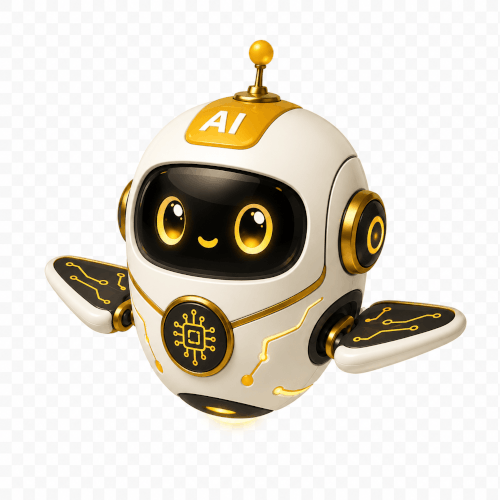
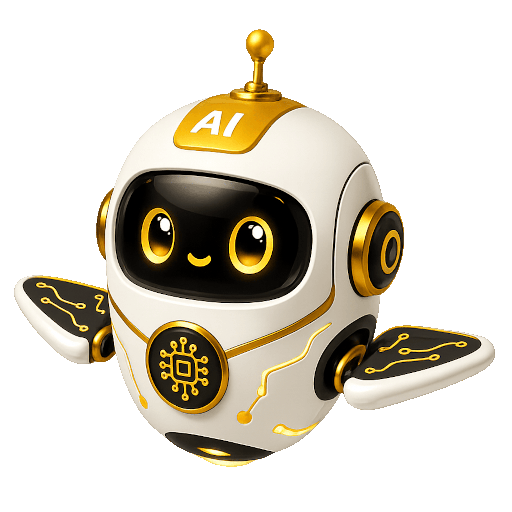
feat(hero-section): add floating mascot animation and update styles

Changed region(s): [[0.03, 0.06, 0.99, 0.93], [0.69, 0.27, 0.72, 0.33], [0.66, 0.24, 0.69, 0.27]]

diff --git a/src/index.css b/src/index.css
@@ -84,6 +84,7 @@
 	--animate-slide-left: slide-left 0.6s ease-out both;
 	--animate-slide-right: slide-right 0.6s ease-out both;
 	--animate-pulse-soft: pulse-soft 3s ease-in-out infinite;
+	--animate-float-bob: float-bob 4s ease-in-out infinite;
 	--animate-scroll-x: scroll-x 20s linear infinite;
 	--animate-menu-slide-down-in: menu-slide-down-in 0.3s ease-out forwards;
 	--animate-scale-in: scale-in 0.2s ease-out forwards;
@@ -151,6 +152,15 @@
 		}
 		50% {
 			opacity: 0.7;
+		}
+	}
+	@keyframes float-bob {
+		0%,
+		100% {
+			transform: translateY(0);
+		}
+		50% {
+			transform: translateY(-8px);
 		}
 	}
 	@keyframes scroll-x {
@@ -687,5 +697,13 @@ body {
 		right: auto;
 		translate: none;
 		justify-self: anchor-center;
+	}
+}
+
+/* Hero mascot float-bob — disabled for reduced-motion. Unlayered so it
+   out-ranks Tailwind's layered `animate-float-bob` utility. */
+@media (prefers-reduced-motion: reduce) {
+	.hero-bot {
+		animation: none;
 	}
 }

diff --git a/src/components/sections/HeroSection.tsx b/src/components/sections/HeroSection.tsx
@@ -1,5 +1,7 @@
+import pingoBot from "@/assets/pingo/pingo-3d.png?w=192;384&format=avif;webp&as=picture";
 import { CodeBlock, exampleApiCode } from "@/components/CodeBlock";
 import { FadeIn } from "@/components/FadeIn";
+import { Picture } from "@/components/Picture";
 import { TrustStrip } from "@/components/sections/TrustStrip";
 import { Button } from "@/components/ui/button";
 import { openZohoChat } from "@/lib/zoho-chat";
@@ -196,6 +198,13 @@ export const HeroSection = () => {
 						<div className="relative">
 							{/* Glow Effect */}
 							<div className="absolute -inset-4 bg-eko-gold/10 rounded-2xl blur-2xl" />
+
+							{/* Floating mascot — decorative */}
+							<Picture
+								src={pingoBot}
+								alt=""
+								className="hero-bot pointer-events-none absolute -top-12 -right-6 w-42 h-42 z-10 drop-shadow-[0_12px_24px_rgba(0,0,0,0.35)] animate-float-bob select-none"
+							/>
 
 							<CodeBlock
 								code={exampleApiCode}

diff --git a/src/components/sections/CTASection.tsx b/src/components/sections/CTASection.tsx
@@ -1,10 +1,10 @@
+import { FadeIn } from "@/components/FadeIn";
 import { SectionContainer } from "@/components/SectionContainer";
 import { Button } from "@/components/ui/button";
-import { MessageCircle, Phone } from "lucide-react";
 import { SALES_MOBILE } from "@/lib/config/site";
 import { formatMobile } from "@/lib/utils";
 import { openZohoChat } from "@/lib/zoho-chat";
-import { FadeIn } from "@/components/FadeIn";
+import { MessageCircle, Phone } from "lucide-react";
 
 export const CTASection = () => {
 	const handleChat = () => {

diff --git a/src/pages/Index.tsx b/src/pages/Index.tsx
@@ -9,7 +9,6 @@ import { SITE_URL } from "@/lib/config/site";
 import { Helmet } from "react-helmet-async";
 
 import { CTASection } from "@/components/sections/CTASection";
-import { LeadCaptureSection } from "@/components/sections/LeadCaptureSection";
 
 const Index = () => {
 	return (
@@ -25,7 +24,7 @@ const Index = () => {
 				<DeveloperSection />
 				<UseCasesSection />
 				<ComplianceSection />
-				<LeadCaptureSection />
+				{/* <LeadCaptureSection /> */}
 				<CTASection />
 			</main>
 